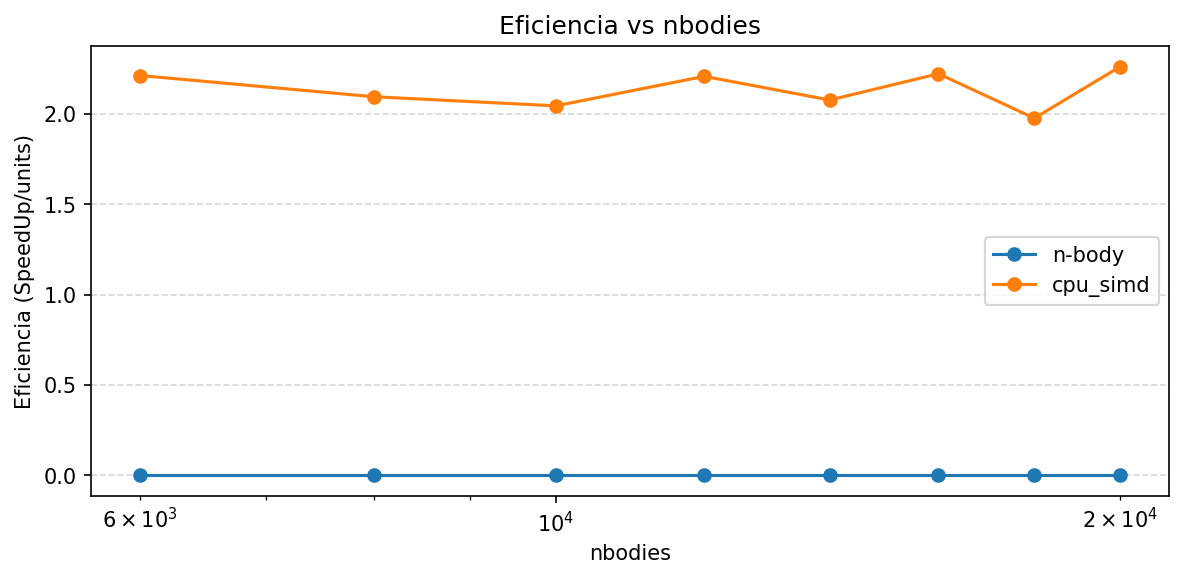
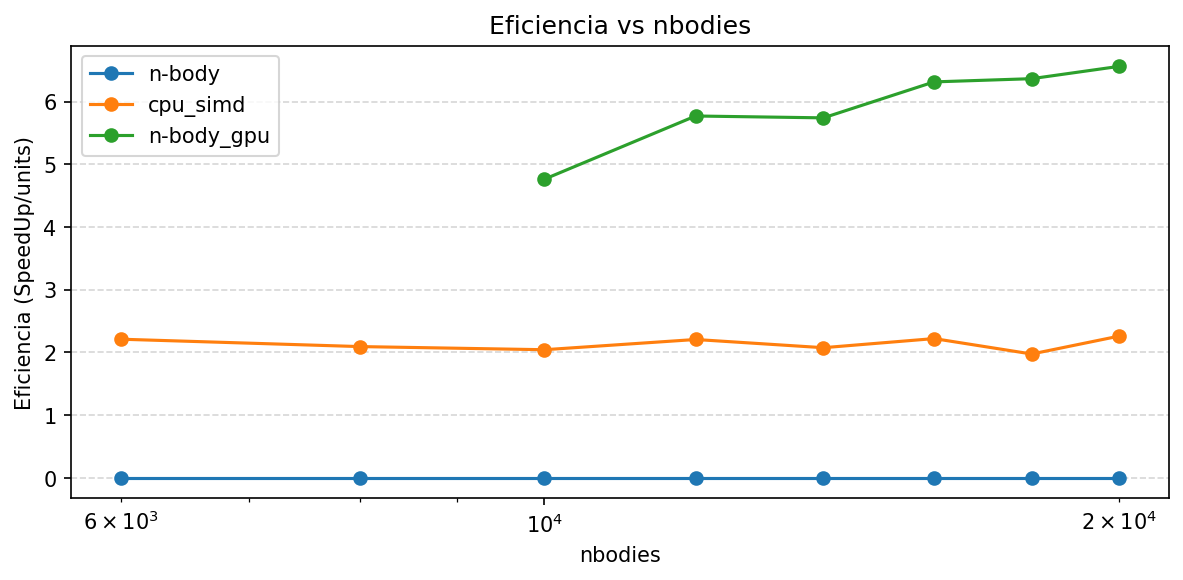
[Update] readme and fix efficiency calculation

diff --git a/proyecto_2/scripts/metrics.py b/proyecto_2/scripts/metrics.py
@@ -84,7 +84,8 @@ FIELDNAMES = [
     "Eficiencia",
 ]
 
-PARALLEL_UNITS = 8 # esto es solo para el de simd, hay que ver despues como se hace para el de gpu
+PARALLEL_UNITS = 8 # simd
+GPU_PARALLEL_UNITS = 64 # gpu
 
 def calcular_fila(program: str, times_sec, seq_times=None):
     times_sec = np.array(times_sec, dtype=float)
@@ -100,7 +101,7 @@ def calcular_fila(program: str, times_sec, seq_times=None):
     else:
         sp = 1.0
 
-    eff = 0.0 if program == "n-body" else (float(sp) / PARALLEL_UNITS)
+    eff = 0.0 if program == "n-body" else (float(sp) / PARALLEL_UNITS) if program == "cpu_simd" else (float(sp) / GPU_PARALLEL_UNITS) 
 
     return {
         "program":             program,

diff --git a/proyecto_2/readme.md b/proyecto_2/readme.md
@@ -9,3 +9,31 @@ Visualizacion
 3) Ejecutar visualizador: make run-visualize
 
 Dependencias Python: requirements.txt
+
+Perfilado de GPU
+-------------
+1) Instalar ROCm
+2) Instalar ROCm Systems Profiler: 
+Seguir sección Building Dyninst alongside ROCm Systems Profiler
+3) Preparar el ambiente de ejecución
+```bash
+    echo 0 | sudo tee /proc/sys/kernel/perf_event_paranoid
+	source /opt/rocprofiler-systems/share/rocprofiler-systems/setup-env.sh
+	export LD_LIBRARY_PATH=/opt/rocm-7.2.4/lib
+    export LD_LIBRARY_PATH=/opt/rocm/lib:/opt/rocprofiler-systems/lib:$$LD_LIBRARY_PATH
+    rocprof-sys-avail --hw-counters --description -c GPU
+```
+
+4) Generar un binario con instrumentación
+```bash
+    rocprof-sys-instrument -M sampling -o profiling/gpu.inst -- build/n-body_gpu
+```
+
+5) Ejecutar el perfilado
+```bash
+    rocprof-sys-run -- profiling/gpu.inst
+```
+6) Ejecutar sampling
+```bash
+    rocprof-sys-sample --gpus 0 --G L2CacheHit GL2C_MISS GL2C_MISS_sum GPUBusy GRBM_COUNT LdsLatency MeanOccupancyPerActiveCU MeanOccupancyPerCU OccupancyPercent SQ_WAVE_CYCLES Wavefronts --realtime 0 -- build/n-body_gpu 
+```
